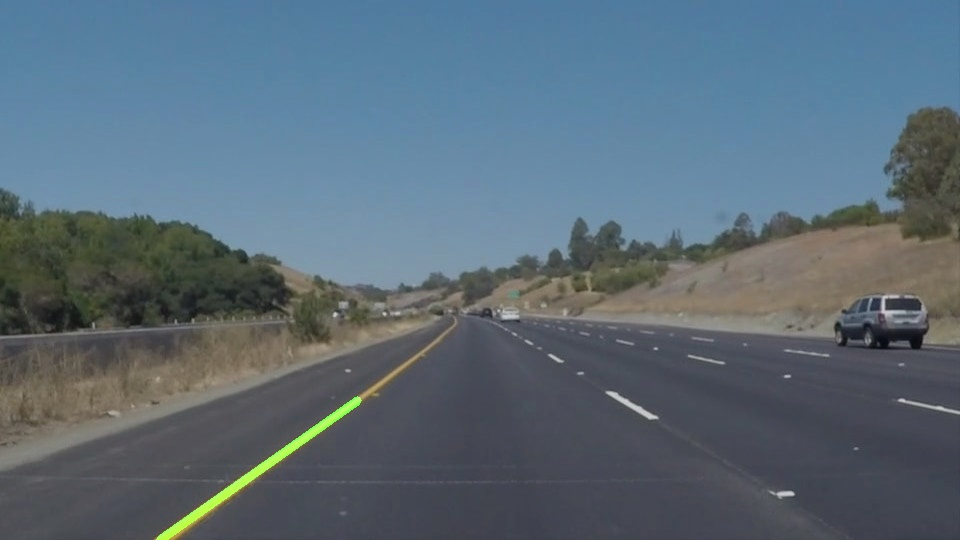
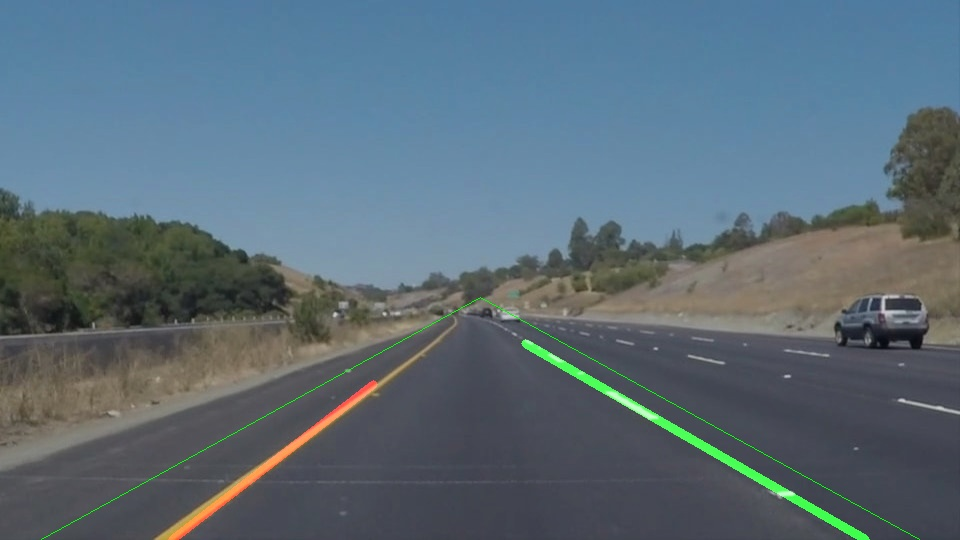
memory redone

diff --git a/mqP1.py b/mqP1.py
@@ -82,6 +82,7 @@ def drawConsolidateLine(img, lines, color=[0, 255, 0]):
     b = img.shape[0] - 1 - x0 * s
     x1 = (minY - b) / s
     cv2.line(img, (int(x0), img.shape[0] - 1), (int(x1), minY), color, 8)
+    [int(x0), img.shape[0] - 1, int(x1), minY]
 
 
 def region_of_interest(img, vertices):
@@ -109,7 +110,7 @@ def region_of_interest(img, vertices):
     return masked_image
 
 
-def draw_lines2(img, lines, color=[255, 0, 0], cutingLine=450, thickness=2):
+def draw_lines(img, lines, color=[255, 0, 0], cutingLine=450, thickness=2):
     # global variables for memory proposes
     global leftFails
     global rightFails
@@ -126,10 +127,6 @@ def draw_lines2(img, lines, color=[255, 0, 0], cutingLine=450, thickness=2):
     # we will pay attention to the lines that cross a line in the image
     # cv2.line(img, (0, cutingLine), (image.shape[1], cutingLine), color, thickness)
     mid = image.shape[1] / 2
-    left = 0
-    right = image.shape[1]
-    rightLine = None
-    leftLine = None
     left_lines = []
     right_lines = []
     if lines is None:
@@ -141,8 +138,8 @@ def draw_lines2(img, lines, color=[255, 0, 0], cutingLine=450, thickness=2):
             if abs(slope) < maxSlope / 100:
                 continue
             # cv2.line(img, (x1, y1), (x2, y2), [0, 255, 0], 1)
-            if (y1 < cutingLine and y2 < cutingLine):
-                continue
+            #if (y1 < cutingLine and y2 < cutingLine):
+            #    continue
             inter = intersectionPoint(line[0], [0, image.shape[0], image.shape[1], image.shape[0]])
             # inter = intersectionPoint(line[0], [0, cutingLine, image.shape[1], cutingLine])
             if (inter == False):
@@ -154,82 +151,36 @@ def draw_lines2(img, lines, color=[255, 0, 0], cutingLine=450, thickness=2):
             else:
                 #cv2.line(img, (x1, y1), (x2, y2), [0, 255, 255], 1)
                 right_lines.append(line)
-            # Check if intersection is inside the line
-            if (inter[1] > y1 and inter[1] > y2) or (inter[1] < y1 and inter[1] < y2):
-                continue
-            # now we take closser line from right and closser from left
-            if (inter[0] > mid and inter[0] < right):
-                # right
-                if validRightSlopeCount and (lastRightSlope / slope < 0.92 or lastRightSlope / slope > 1.08 or abs(
-                            lastRightInt - inter[0]) > 15):
-                    continue
-                right = inter[0]
-                rightLine = line[0]
-            if (inter[0] < mid and inter[0] > left):
-                # left
-                if abs(slope) < maxSlope / 100:
-                    continue
-                if validLeftSlopeCount and ((lastLeftSlope / slope < 0.92) or lastLeftSlope / slope > 1.08 or abs(
-                            lastLeftInt - inter[0]) > 15):
-                    continue
-                left = inter[0]
-                leftLine = line[0]
-    if len(left_lines):
-        slope, bias = drawConsolidateLine(img, left_lines, [0, 255, 0])
-    if len(right_lines):
-        drawConsolidateLine(img, right_lines, [0, 0, 255])
+
     # if we have found a image that fit all requirements we write it, if not we use the last information during
     # maxHisteresys frames
-    if leftLine is not None:
-        cv2.line(img, (leftLine[0], leftLine[1]), (leftLine[2], leftLine[3]), color, thickness)
-        lastLeftLine = leftLine
-        lastLeftSlope = slopeLine(leftLine)
-        lastLeftInt = intersectionPoint(leftLine, [0, cutingLine, image.shape[1], cutingLine])[0]
+
+    if len(left_lines):
+        lastLeftLine = drawConsolidateLine(img, left_lines, [0, 0, 255])
         if (validLeftSlopeCount < maxHisteresys):
             validLeftSlopeCount += 1
-
     else:
+        #if we have no lane lines use old ones
         leftFails += 1
+        # if validLeftSlopeCount is 0 the line is too old, descarted and marc as failure
         if (validLeftSlopeCount > 0):
             leftFails -= 1
             validLeftSlopeCount -= 1
-            cv2.line(img, (lastLeftLine[0], lastLeftLine[1]), (lastLeftLine[2], lastLeftLine[3]), color, thickness)
+            cv2.line(img, (lastLeftLine[0], lastLeftLine[1]), (lastLeftLine[2], lastLeftLine[3]), [255, 255, 0], 6)
 
-    if rightLine is not None:
-        cv2.line(img, (rightLine[0], rightLine[1]), (rightLine[2], rightLine[3]), color, thickness)
-        lastRightLine = rightLine
-        lastRightSlope = slopeLine(rightLine)
-        lastRightInt = intersectionPoint(rightLine, [0, cutingLine, image.shape[1], cutingLine])[0]
+    if len(right_lines):
+        lastRightLine = drawConsolidateLine(img, right_lines, [0, 255,0 ])
         if (validRightSlopeCount < maxHisteresys):
             validRightSlopeCount += 1
     else:
+        # if we have no lane lines use old ones
         rightFails += 1
+        # if validLeftSlopeCount is 0 the line is too old, descarted and marc as failure
         if (validRightSlopeCount > 0):
             rightFails -= 1
             validRightSlopeCount -= 1
-            cv2.line(img, (lastRightLine[0], lastRightLine[1]), (lastRightLine[2], lastRightLine[3]), color, thickness)
+            cv2.line(img, (lastRightLine[0], lastRightLine[1]), (lastRightLine[2], lastRightLine[3]), [255, 255, 0], 6)
 
-
-def draw_lines(img, lines, color=[255, 0, 0], thickness=2):
-    """
-    NOTE: this is the function you might want to use as a starting point once you want to
-    average/extrapolate the line segments you detect to map out the full
-    extent of the lane (going from the result shown in raw-lines-example.mp4
-    to that shown in P1_example.mp4).
-
-    Think about things like separating line segments by their
-    slope ((y2-y1)/(x2-x1)) to decide which segments are part of the left
-    line vs. the right line.  Then, you can average the position of each of
-    the lines and extrapolate to the top and bottom of the lane.
-
-    This function draws `lines` with `color` and `thickness`.
-    Lines are drawn on the image inplace (mutates the image).
-    If you want to make the lines semi-transparent, think about combining
-    this function with the weighted_img() function below
-    """
-    for line in lines:
-        for x1, y1, x2, y2 in line:
-            cv2.line(img, (x1, y1), (x2, y2), color, thickness)
 
 
 def hough_lines(img, rho, theta, threshold, min_line_len, max_line_gap, linecutPos=0):
@@ -242,10 +193,7 @@ def hough_lines(img, rho, theta, threshold, min_line_len, max_line_gap, linecutP
                             maxLineGap=max_line_gap)
     # lines = cv2.HoughLines(img, rho, theta, threshold, np.array([]), minLineLength=min_line_len,maxLineGap=max_line_gap)
     line_img = np.zeros((img.shape[0], img.shape[1], 3), dtype=np.uint8)
-    if (linecutPos > 0):
-        draw_lines2(line_img, lines, color=[0, 0, 255], cutingLine=linecutPos, thickness=4)
-    else:
-        draw_lines(line_img, lines)
+    draw_lines(line_img, lines, color=[0, 0, 255], cutingLine=linecutPos, thickness=4)
 
     return line_img
 
@@ -301,7 +249,7 @@ def doImageProcess(image):
 
     # reduce area of interest to a triangle
     roi = np.array([[40, withCanny.shape[0]], [withCanny.shape[1] - 40, withCanny.shape[0]],
-                    [withCanny.shape[1] / 2, withCanny.shape[0] / 2 + 56]], np.int32)
+                    [withCanny.shape[1] / 2, withCanny.shape[0] / 2 + withCanny.shape[0] /20]], np.int32)
     cropedImage = region_of_interest(withCanny, [roi])
 
     # finally convert the canny result to hough space and represent the lines in the output.
@@ -310,6 +258,7 @@ def doImageProcess(image):
 
     # merge it with original image to obtain the final result.
     final = weighted_img(hough_image, image, 0.8, 1., 0.)
+    cv2.polylines(final,[roi],1,[0,255,0])
     return final, bluredImage, maskedImage, withCanny, cropedImage, hough_image
 
 
@@ -323,7 +272,8 @@ def maskHSVYellowAndWhite(orig_img):
     # get yellow mask
     maskY = cv2.inRange(hsv, np.array([22 - 3, 125 - 20, 180 - 70]), np.array([22 + 3, 125 + 90, 180 + 70]))
     # get withe mask
-    maskW = cv2.inRange(hsv, np.array([midH - 10, midS - 30, midV - 25]), np.array([midH + 10, midS + 16, midV + 25]))
+    #maskW = cv2.inRange(hsv, np.array([midH - 10, midS - 30, midV - 25]), np.array([midH + 10, midS + 16, midV + 25]))
+    maskW = cv2.inRange(hsv, np.array([0, midS - 30, midV - 25]), np.array([176, midS + 16, midV + 25]))
 
     # to join both mask I have to do an OR between them,
     # finally make a BRG image with 255 in all dots yellow or white
@@ -400,7 +350,8 @@ def refreshDebugWindow(image1, image2, image3, image4):
 # videoName="test_videos/solidWhiteRight.mp4"
 videoName = "test_videos/challenge.mp4"
 videoImages = True
-debug = 1
+#videoImages = False
+debug = 0
 lightLimit = 221
 maxSlope = 24
 lthres = 0
@@ -420,7 +371,7 @@ lastRightInt = 2000
 midH = 23
 midS = 18
 midV = 230
-thr = 10
+thr = 19
 hough_max_length = 150
 hough_min_length = 10
 
